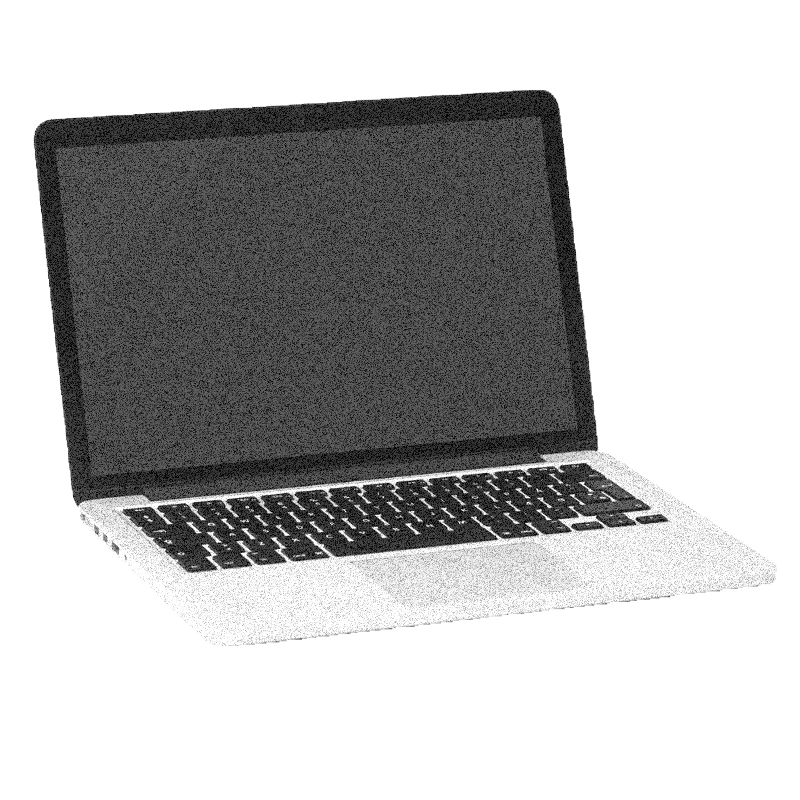
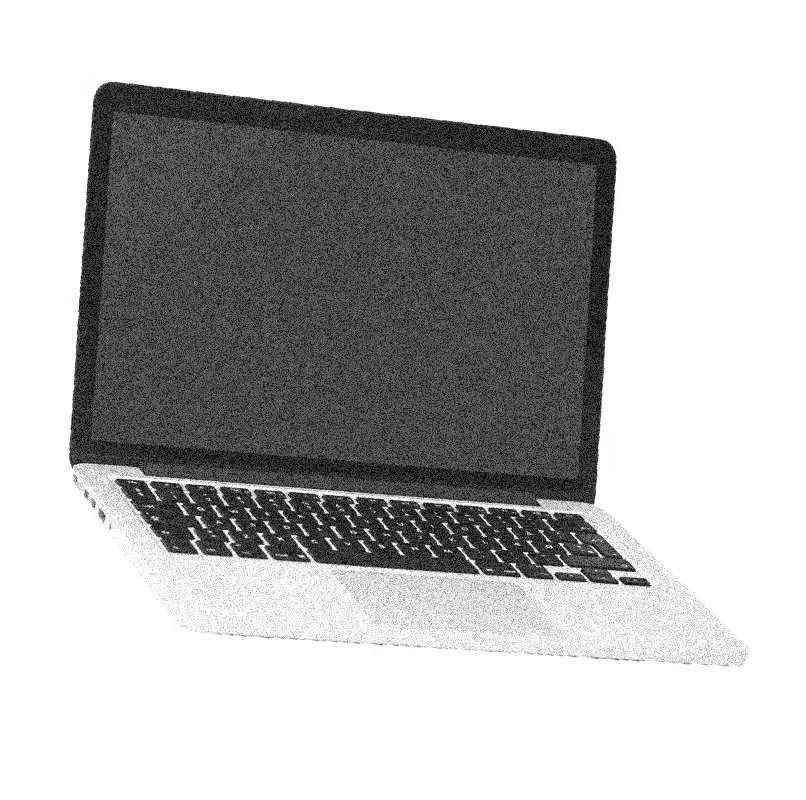
V.1.3.5 - 29.06.26

Changed region(s): [[0.0312, 0.0938, 0.9688, 0.8438]]

diff --git a/marketing-digital/index.html b/marketing-digital/index.html
@@ -171,94 +171,51 @@
         <div class="container pb-3">
             <h2 class="text-center text-white p-4">Nuestros Servicios</h2>
             <div class="row justify-content-center align-items-center">
-                <div class="col-lg-4 mb-2 portfolio-item">
-                    <div
-                        class="card portfolio-card bg-secondary text-white h-100 align-items-center justify-content-center">
-                        <div class="p-2">
-                            <svg xmlns="http://www.w3.org/2000/svg" width="100" height="100" viewBox="0 0 45 45">
-                                <path fill="currentColor"
-                                    d="M40 23.2c0-2.1-1.7-3.2-4-3.2h-6.7c.5-1.8.7-3.5.7-5c0-5.8-1.6-7-3-7c-.9 0-1.6.1-2.5.6c-.3.2-.4.4-.5.7l-1 5.4c-1.1 2.8-3.8 5.3-6 7V36c.8 0 1.6.4 2.6.9c1.1.5 2.2 1.1 3.4 1.1h9.5c2 0 3.5-1.6 3.5-3c0-.3 0-.5-.1-.7c1.2-.5 2.1-1.5 2.1-2.8c0-.6-.1-1.1-.3-1.6c.8-.5 1.5-1.4 1.5-2.4c0-.6-.3-1.2-.6-1.7c.8-.6 1.4-1.6 1.4-2.6m-2.1 0c0 1.3-1.3 1.4-1.5 2c-.2.7.8.9.8 2.1s-1.5 1.2-1.7 1.9c-.2.8.5 1 .5 2.2v.2c-.2 1-1.7 1.1-2 1.5c-.3.5 0 .7 0 1.8c0 .6-.7 1-1.5 1H23c-.8 0-1.6-.4-2.6-.9c-.8-.4-1.6-.8-2.4-1V23.5c2.5-1.9 5.7-4.7 6.9-8.2v-.2l.9-5c.4-.1.7-.1 1.2-.1c.2 0 1 1.2 1 5c0 1.5-.3 3.1-.8 5H27c-.6 0-1 .4-1 1s.4 1 1 1h9c1 0 1.9.5 1.9 1.2" />
-                                <path fill="currentColor"
-                                    d="M16 38h-6c-1.1 0-2-.9-2-2V22c0-1.1.9-2 2-2h6c1.1 0 2 .9 2 2v14c0 1.1-.9 2-2 2m-6-16v14h6V22z" />
-                            </svg>
-                        </div>
-                        <div class="card-body">
-                            <h5 class="card-title text-center p-2">Social Media</h5>
-                        </div>
+                <div class="col-lg-4 mb-2">
+                    <div class="service-item p-5 mb-4">
+                        <img src="../img/servicios/social_media.webp" alt="Social Media"
+                            style="width: 10rem; height: 10rem; object-fit: contain;" />
+                        <h5 class="card-title text-center p-2">Social Media</h5>
                     </div>
                 </div>
-                <div class="col-lg-4 mb-2 portfolio-item">
-                    <div
-                        class="card portfolio-card bg-secondary text-white h-100 align-items-center justify-content-center">
-                        <div class="p-2">
-                            <svg xmlns="http://www.w3.org/2000/svg" width="100" height="100" viewBox="0 0 256 256">
-                                <path fill="currentColor"
-                                    d="M232.49 215.51L185 168a92.12 92.12 0 1 0-17 17l47.53 47.54a12 12 0 0 0 17-17ZM44 112a68 68 0 1 1 68 68a68.07 68.07 0 0 1-68-68" />
-                            </svg>
-                        </div>
-                        <div class="card-body">
-                            <h5 class="card-title text-center p-2">Campañas SEM</h5>
-                        </div>
+
+                <div class="col-lg-4 mb-2">
+                    <div class="service-item p-5 mb-4">
+                        <img src="../img/servicios/sem.webp" alt="Marketing Digital"
+                            style="width: 10rem; height: 10rem; object-fit: contain;" />
+                        <h5 class="card-title text-center p-2">Campañas SEM</h5>
                     </div>
                 </div>
-                <div class="col-lg-4 mb-2 portfolio-item">
-                    <div
-                        class="card portfolio-card bg-secondary text-white h-100 align-items-center justify-content-center">
-                        <div class="p-2">
-                            <svg xmlns="http://www.w3.org/2000/svg" width="100" height="100" viewBox="0 0 24 24">
-                                <path fill="currentColor"
-                                    d="M12 4.5A1.75 1.75 0 1 0 12 8a1.75 1.75 0 0 0 0-3.5M8.75 6.25a3.25 3.25 0 1 1 6.5 0a3.25 3.25 0 0 1-6.5 0M5 6.5a1.5 1.5 0 1 0 0 3a1.5 1.5 0 0 0 0-3M2 8a3 3 0 1 1 6 0a3 3 0 0 1-6 0m15.5 0a1.5 1.5 0 1 1 3 0a1.5 1.5 0 0 1-3 0M19 5a3 3 0 1 0 0 6a3 3 0 0 0 0-6M7.5 12.75c0-.966.784-1.75 1.75-1.75h5.5c.966 0 1.75.784 1.75 1.75v3.75a4.5 4.5 0 1 1-9 0zm1.75-.25a.25.25 0 0 0-.25.25v3.75a3 3 0 1 0 6 0v-3.75a.25.25 0 0 0-.25-.25zm-2.64-.522q-.109.369-.11.772v.81l-2.814.754a.25.25 0 0 0-.177.306l.712 2.657a3 3 0 0 0 3.161 2.212c.315.486.705.919 1.153 1.282a4.5 4.5 0 0 1-5.763-3.107l-.712-2.656a1.75 1.75 0 0 1 1.237-2.143zm8.855 8.793q.125.042.253.076a4.5 4.5 0 0 0 5.511-3.182l.712-2.656a1.75 1.75 0 0 0-1.237-2.144l-3.314-.888q.109.37.11.773v.81l2.816.754a.25.25 0 0 1 .176.306l-.712 2.657a3 3 0 0 1-3.162 2.212a5.5 5.5 0 0 1-1.153 1.282" />
-                            </svg>
-                        </div>
-                        <div class="card-body">
-                            <h5 class="card-title text-center p-2">Community Management</h5>
-                        </div>
+
+                <div class="col-lg-4 mb-2">
+                    <div class="service-item p-5 mb-4">
+                        <img src="../img/servicios/social_media.webp" alt="Marketing Digital"
+                            style="width: 10rem; height: 10rem; object-fit: contain;" />
+                        <h5 class="card-title text-center p-2">Community Management</h5>
                     </div>
                 </div>
-                <div class="col-lg-4 mb-2 portfolio-item">
-                    <div
-                        class="card portfolio-card bg-secondary text-white h-100 align-items-center justify-content-center">
-                        <div class="p-2">
-                            <svg xmlns="http://www.w3.org/2000/svg" width="100" height="100" viewBox="0 0 24 24">
-                                <path fill="currentColor"
-                                    d="m9.727 8.304l2.338 2.338a1.94 1.94 0 0 0 2.735 0l6.586-6.596a.25.25 0 0 1 .34 0l1.057 1.057c.089.09.212.14.34.136q.091.021.183 0a.485.485 0 0 0 .301-.475V.884a.485.485 0 0 0-.485-.485h-3.88a.485.485 0 0 0-.485.3a.47.47 0 0 0 .107.524l1.145 1.106a.233.233 0 0 1 0 .34l-2.91 2.91C14.487-.614 6.152-1.657 2.096 3.7A8.73 8.73 0 0 0 .327 9.187q.003.486.058.97a.97.97 0 0 0 .97.853h.116a.97.97 0 0 0 .854-1.076a7 7 0 0 1 0-.796C2.498 3.87 8.31.763 12.786 3.546a6.85 6.85 0 0 1 2.838 3.526L13.607 9.12a.26.26 0 0 1-.35 0L10.92 6.762a1.94 1.94 0 0 0-2.735 0L.619 14.318a.97.97 0 1 0 1.377 1.367l.563-.562a9.1 9.1 0 0 0 6.567 2.91a8.73 8.73 0 0 0 5.334-1.804a.25.25 0 0 1 .32 0l1.358 1.358a.24.24 0 0 1 .059.252a1.45 1.45 0 0 0 .34 1.513l3.763 3.773c1.004 1.105 2.828.708 3.283-.715a1.94 1.94 0 0 0-.548-2.03l-3.754-3.792a1.48 1.48 0 0 0-1.028-.427q-.25 0-.485.087a.24.24 0 0 1-.252-.058l-1.358-1.358a.243.243 0 0 1 0-.32a8.9 8.9 0 0 0 1.358-2.59a.97.97 0 1 0-1.843-.601a6.86 6.86 0 0 1-6.518 4.723a7.1 7.1 0 0 1-5.18-2.298l5.432-5.442a.243.243 0 0 1 .32 0" />
-                            </svg>
-                        </div>
-                        <div class="card-body">
-                            <h5 class="card-title text-center p-2">Optimización SEO</h5>
-                        </div>
+
+                <div class="col-lg-4 mb-2">
+                    <div class="service-item p-5 mb-4">
+                        <img src="../img/servicios/seo.webp" alt="Marketing Digital"
+                            style="width: 10rem; height: 10rem; object-fit: contain;" />
+                        <h5 class="card-title text-center p-2">Optimización SEO</h5>
                     </div>
                 </div>
-                <div class="col-lg-4 mb-2 portfolio-item">
-                    <div
-                        class="card portfolio-card bg-secondary text-white h-100 align-items-center justify-content-center">
-                        <div class="p-2">
-                            <svg xmlns="http://www.w3.org/2000/svg" width="100" height="100" viewBox="0 0 24 24">
-                                <g fill="none" stroke="currentColor" stroke-linecap="round" stroke-linejoin="round"
-                                    stroke-width="1.5">
-                                    <path d="M4 4v8.296C4 16.551 7.582 20 12 20s8-3.45 8-7.704V4" />
-                                    <path
-                                        d="M4 4h5.63v6.818C9.63 12.023 10.69 13 12 13s2.37-.977 2.37-2.182V4H20M9 8H4m16 0h-5" />
-                                </g>
-                            </svg>
-                        </div>
-                        <div class="card-body">
-                            <h5 class="card-title text-center p-2">Inbound Marketing</h5>
-                        </div>
+
+                <div class="col-lg-4 mb-2">
+                    <div class="service-item p-5 mb-4">
+                        <img src="../img/servicios/inbound.webp" alt="Marketing Digital"
+                            style="width: 10rem; height: 10rem; object-fit: contain;" />
+                        <h5 class="card-title text-center p-2">Inbound Marketing</h5>
                     </div>
                 </div>
-                <div class="col-lg-4 mb-2 portfolio-item">
-                    <div
-                        class="card portfolio-card bg-secondary text-white h-100 align-items-center justify-content-center">
-                        <div class="p-2">
-                            <svg xmlns="http://www.w3.org/2000/svg" width="100" height="100" viewBox="0 0 24 24">
-                                <path fill="currentColor"
-                                    d="M5 19V5v4.475V9zm3-6h3.525q.425 0 .713-.288t.287-.712t-.288-.712t-.712-.288H8q-.425 0-.712.288T7 12t.288.713T8 13m0 4h3.525q.425 0 .713-.288t.287-.712t-.288-.712t-.712-.288H8q-.425 0-.712.288T7 16t.288.713T8 17m0-8h8q.425 0 .713-.288T17 8t-.288-.712T16 7H8q-.425 0-.712.288T7 8t.288.713T8 9M5 21q-.825 0-1.412-.587T3 19V5q0-.825.588-1.412T5 3h14q.825 0 1.413.588T21 5v4.45q0 .425-.288.713T20 10.45t-.712-.287T19 9.45V5H5v14h4q.425 0 .713.288T10 20t-.288.713T9 21zm12-5q-1.05 0-1.775-.725T14.5 13.5t.725-1.775T17 11t1.775.725t.725 1.775t-.725 1.775T17 16m0 1q.975 0 1.938.188t1.862.562q.575.225.888.738T22 19.6v.4q0 .425-.288.713T21 21h-8q-.425 0-.712-.288T12 20v-.4q0-.6.313-1.112t.887-.738q.9-.375 1.863-.562T17 17" />
-                            </svg>
-                        </div>
-                        <div class="card-body">
-                            <h5 class="card-title text-center p-2">Content Marketing</h5>
-                        </div>
+
+                <div class="col-lg-4 mb-2">
+                    <div class="service-item p-5 mb-4">
+                        <img src="../img/servicios/social_media.webp" alt="Marketing Digital"
+                            style="width: 10rem; height: 10rem; object-fit: contain;" />
+                        <h5 class="card-title text-center p-2">Content Marketing</h5>
                     </div>
                 </div>
             </div>
@@ -364,6 +321,9 @@
     <!-- Contact End -->
 
 
+
+
+
     <!-- Other Services Start -->
     <section class="py-5 background-section">
         <div class="container pt-5 pb-3 justify-content-center align-items-center">
@@ -374,7 +334,8 @@
                 <div class="col-lg-4 mb-2">
                     <a href="../desarrollo-web/">
                         <div class="service-item p-5 mb-4">
-                            <i class="fa fa-3x fa-code mb-4"></i>
+                            <img src="../img/servicio_web.webp" alt="Desarrollo Web"
+                                style="width: 10rem; height: 10rem; object-fit: contain;" />
                             <h3 class="mb-4">Desarrollo <span class="d-block">Web</span></h3>
                         </div>
                     </a>
@@ -382,7 +343,8 @@
                 <div class="col-lg-4 mb-2">
                     <a href="../diseno-produccion/">
                         <div class="service-item p-5 mb-4">
-                            <i class="fa fa-3x fa-solid fa-pen-ruler mb-4"></i>
+                            <img src="../img/servicio_audioviual.webp" alt="Producción Audiovisual"
+                                style="width: 10rem; height: 10rem; object-fit: contain;" />
                             <h3 class="mb-4">Diseño y Producción<span class="d-block">
                                     Audiovisual</span></h3>
                         </div>

diff --git a/nosotros/index.html b/nosotros/index.html
@@ -204,10 +204,7 @@
                 <div class="col-lg-4 mb-2 portfolio-item" data-category="web">
                     <div
                         class="card portfolio-card bg-secondary text-white h-100 align-items-center justify-content-center">
-                        <svg xmlns="http://www.w3.org/2000/svg" class="" width="128" height="128" viewBox="0 0 24 24">
-                            <path fill="currentColor"
-                                d="M12 22q-2.075 0-3.9-.788t-3.175-2.137T2.788 15.9T2 12t.788-3.9t2.137-3.175T8.1 2.788T12 2t3.9.788t3.175 2.137T21.213 8.1T22 12t-.788 3.9t-2.137 3.175t-3.175 2.138T12 22m0-2q3.35 0 5.675-2.325T20 12t-2.325-5.675T12 4T6.325 6.325T4 12t2.325 5.675T12 20m0-2q-2.5 0-4.25-1.75T6 12t1.75-4.25T12 6t4.25 1.75T18 12t-1.75 4.25T12 18m0-2q1.65 0 2.825-1.175T16 12t-1.175-2.825T12 8T9.175 9.175T8 12t1.175 2.825T12 16m0-2q-.825 0-1.412-.587T10 12t.588-1.412T12 10t1.413.588T14 12t-.587 1.413T12 14" />
-                        </svg>
+                        <img src="../img/nosotros/mision.webp" width="128" height="128" alt="Icono Misión">
                         <div class="card-body">
                             <h5 class="card-title text-center p-2">Misión</h5>
                             <p class="card-text">Impulsar el crecimiento comercial de emprendedores, PyMEs y grandes
@@ -221,10 +218,7 @@
                 <div class="col-lg-4 mb-2 portfolio-item" data-category="web">
                     <div
                         class="card portfolio-card bg-secondary text-white h-100 align-items-center justify-content-center">
-                        <svg xmlns="http://www.w3.org/2000/svg" width="128" height="128" viewBox="0 0 24 24">
-                            <path fill="currentColor"
-                                d="m9.55 18l-5.7-5.7l1.425-1.425L9.55 15.15l9.175-9.175L20.15 7.4z" />
-                        </svg>
+                        <img src="../img/nosotros/vision.webp" width="128" height="128" alt="Icono Misión">
                         <div class="card-body">
                             <h5 class="card-title text-center p-2">Visión</h5>
                             <p class="card-text">Ser una de las agencias de Marketing & Branding referentes en
@@ -241,15 +235,7 @@
                 <div class="col-lg-4 mb-2 portfolio-item" data-category="web">
                     <div
                         class="card portfolio-card bg-secondary text-white h-100 align-items-center justify-content-center">
-                        <svg xmlns="http://www.w3.org/2000/svg" width="128" height="128" viewBox="0 0 24 24">
-                            <g fill="none" stroke="currentColor" stroke-linecap="round" stroke-linejoin="round"
-                                stroke-width="2">
-                                <path d="m11 17l2 2a1 1 0 1 0 3-3" />
-                                <path
-                                    d="m14 14l2.5 2.5a1 1 0 1 0 3-3l-3.88-3.88a3 3 0 0 0-4.24 0l-.88.88a1 1 0 1 1-3-3l2.81-2.81a5.79 5.79 0 0 1 7.06-.87l.47.28a2 2 0 0 0 1.42.25L21 4" />
-                                <path d="m21 3l1 11h-2M3 3L2 14l6.5 6.5a1 1 0 1 0 3-3M3 4h8" />
-                            </g>
-                        </svg>
+                        <img src="../img/nosotros/valores.webp" width="128" height="128" alt="Icono Misión">
                         <div class="card-body">
                             <h5 class="card-title text-center p-2">Valores</h5>
                             <p>Nuestros valores guían cada <strong>decisión, proceso y relación</strong>:</p>